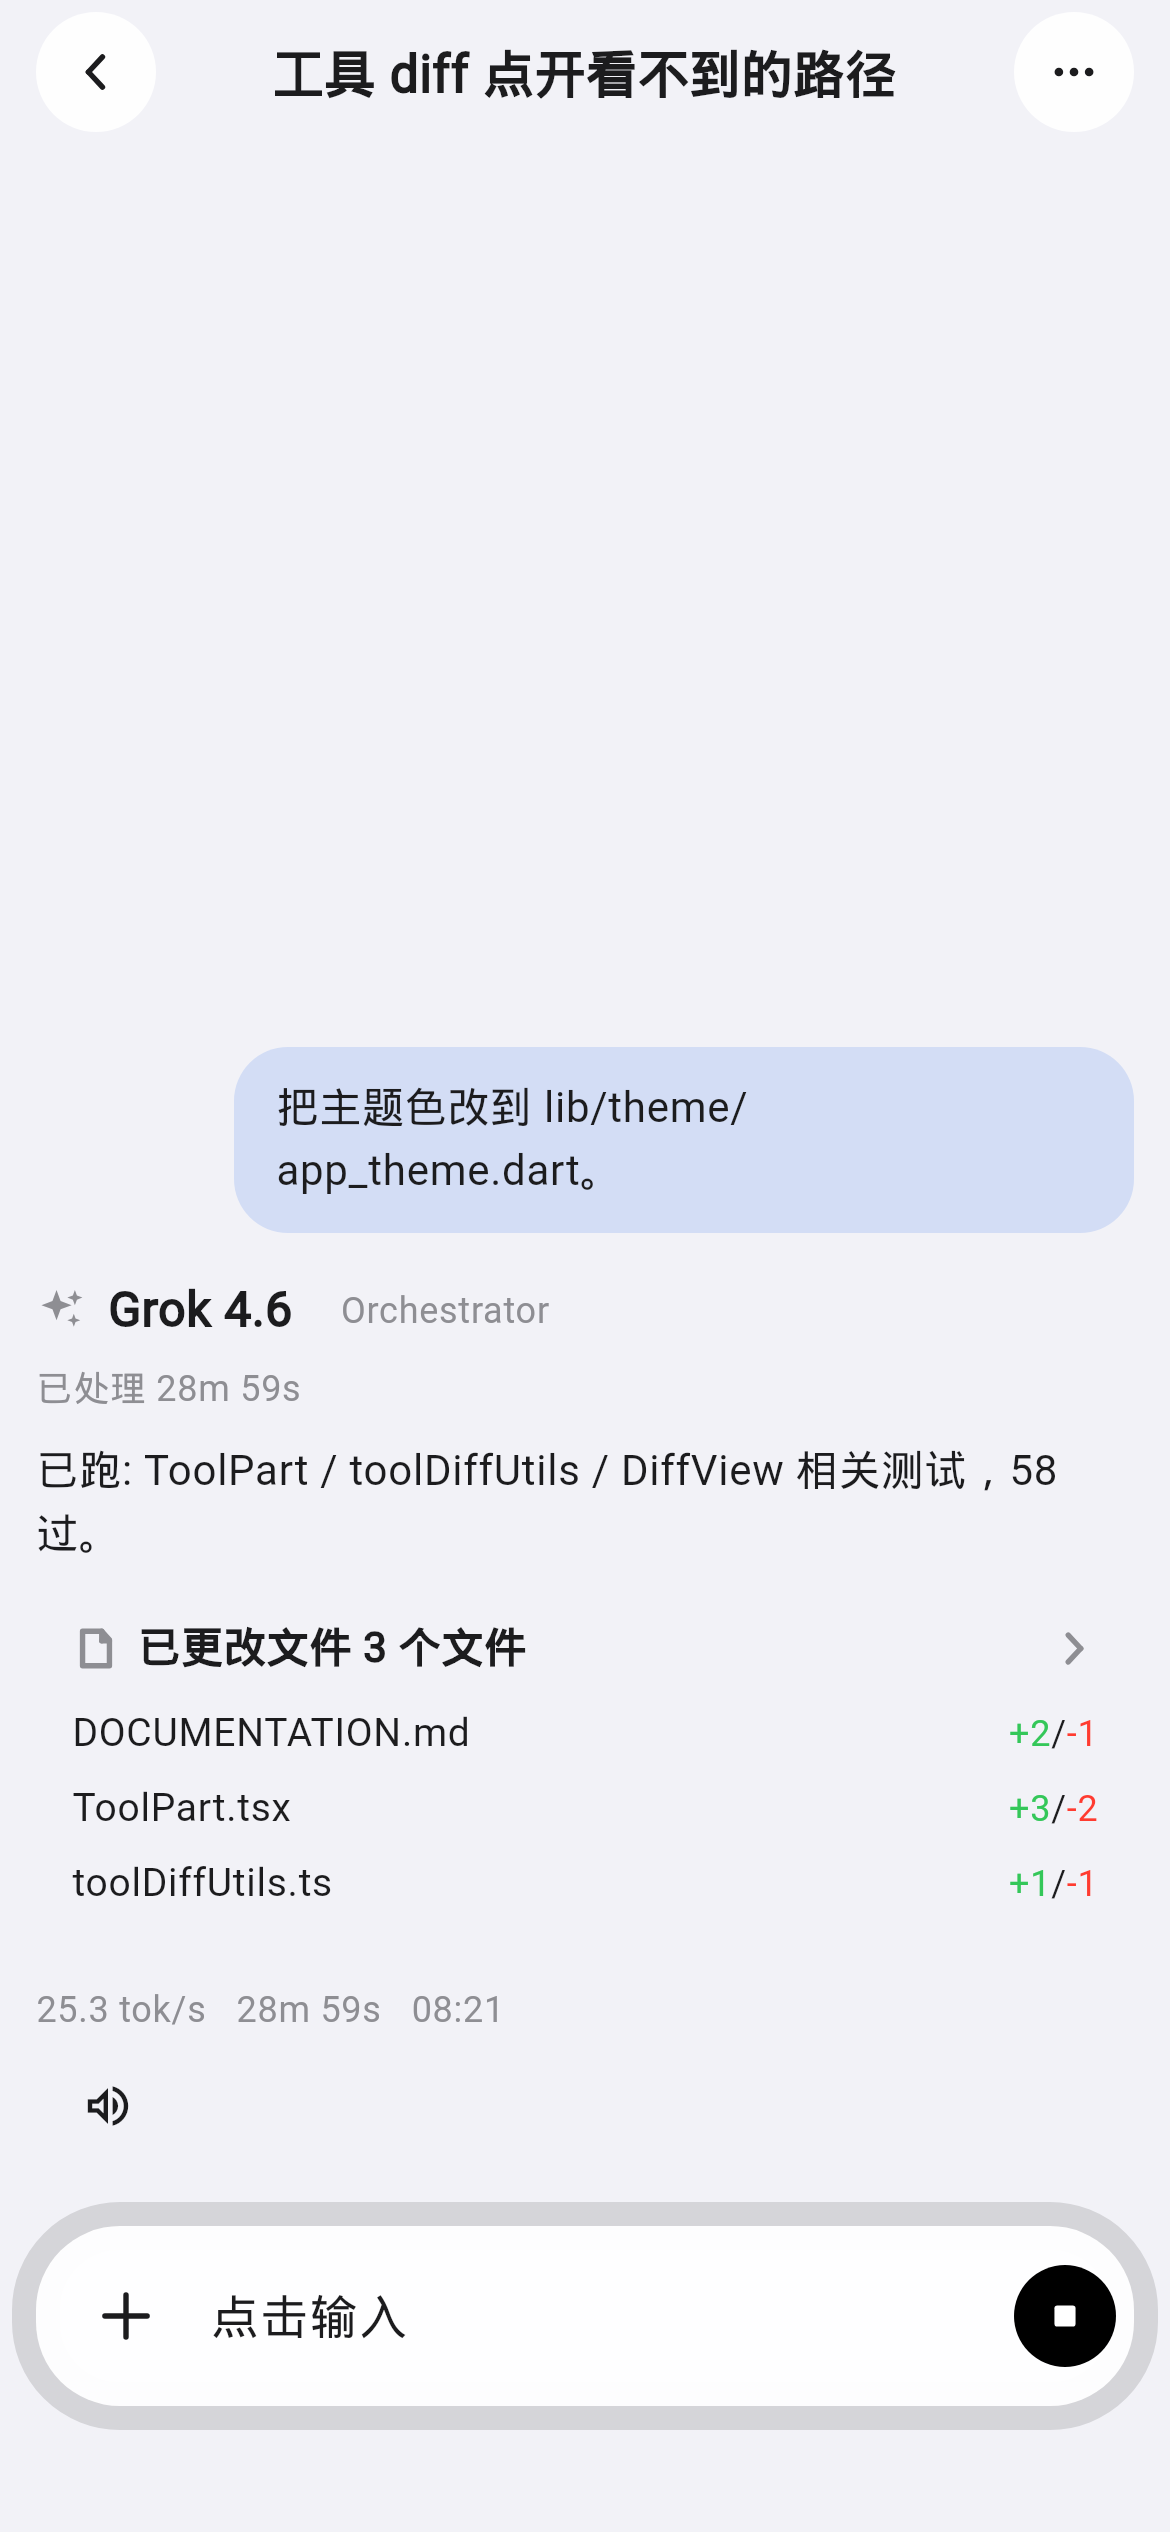
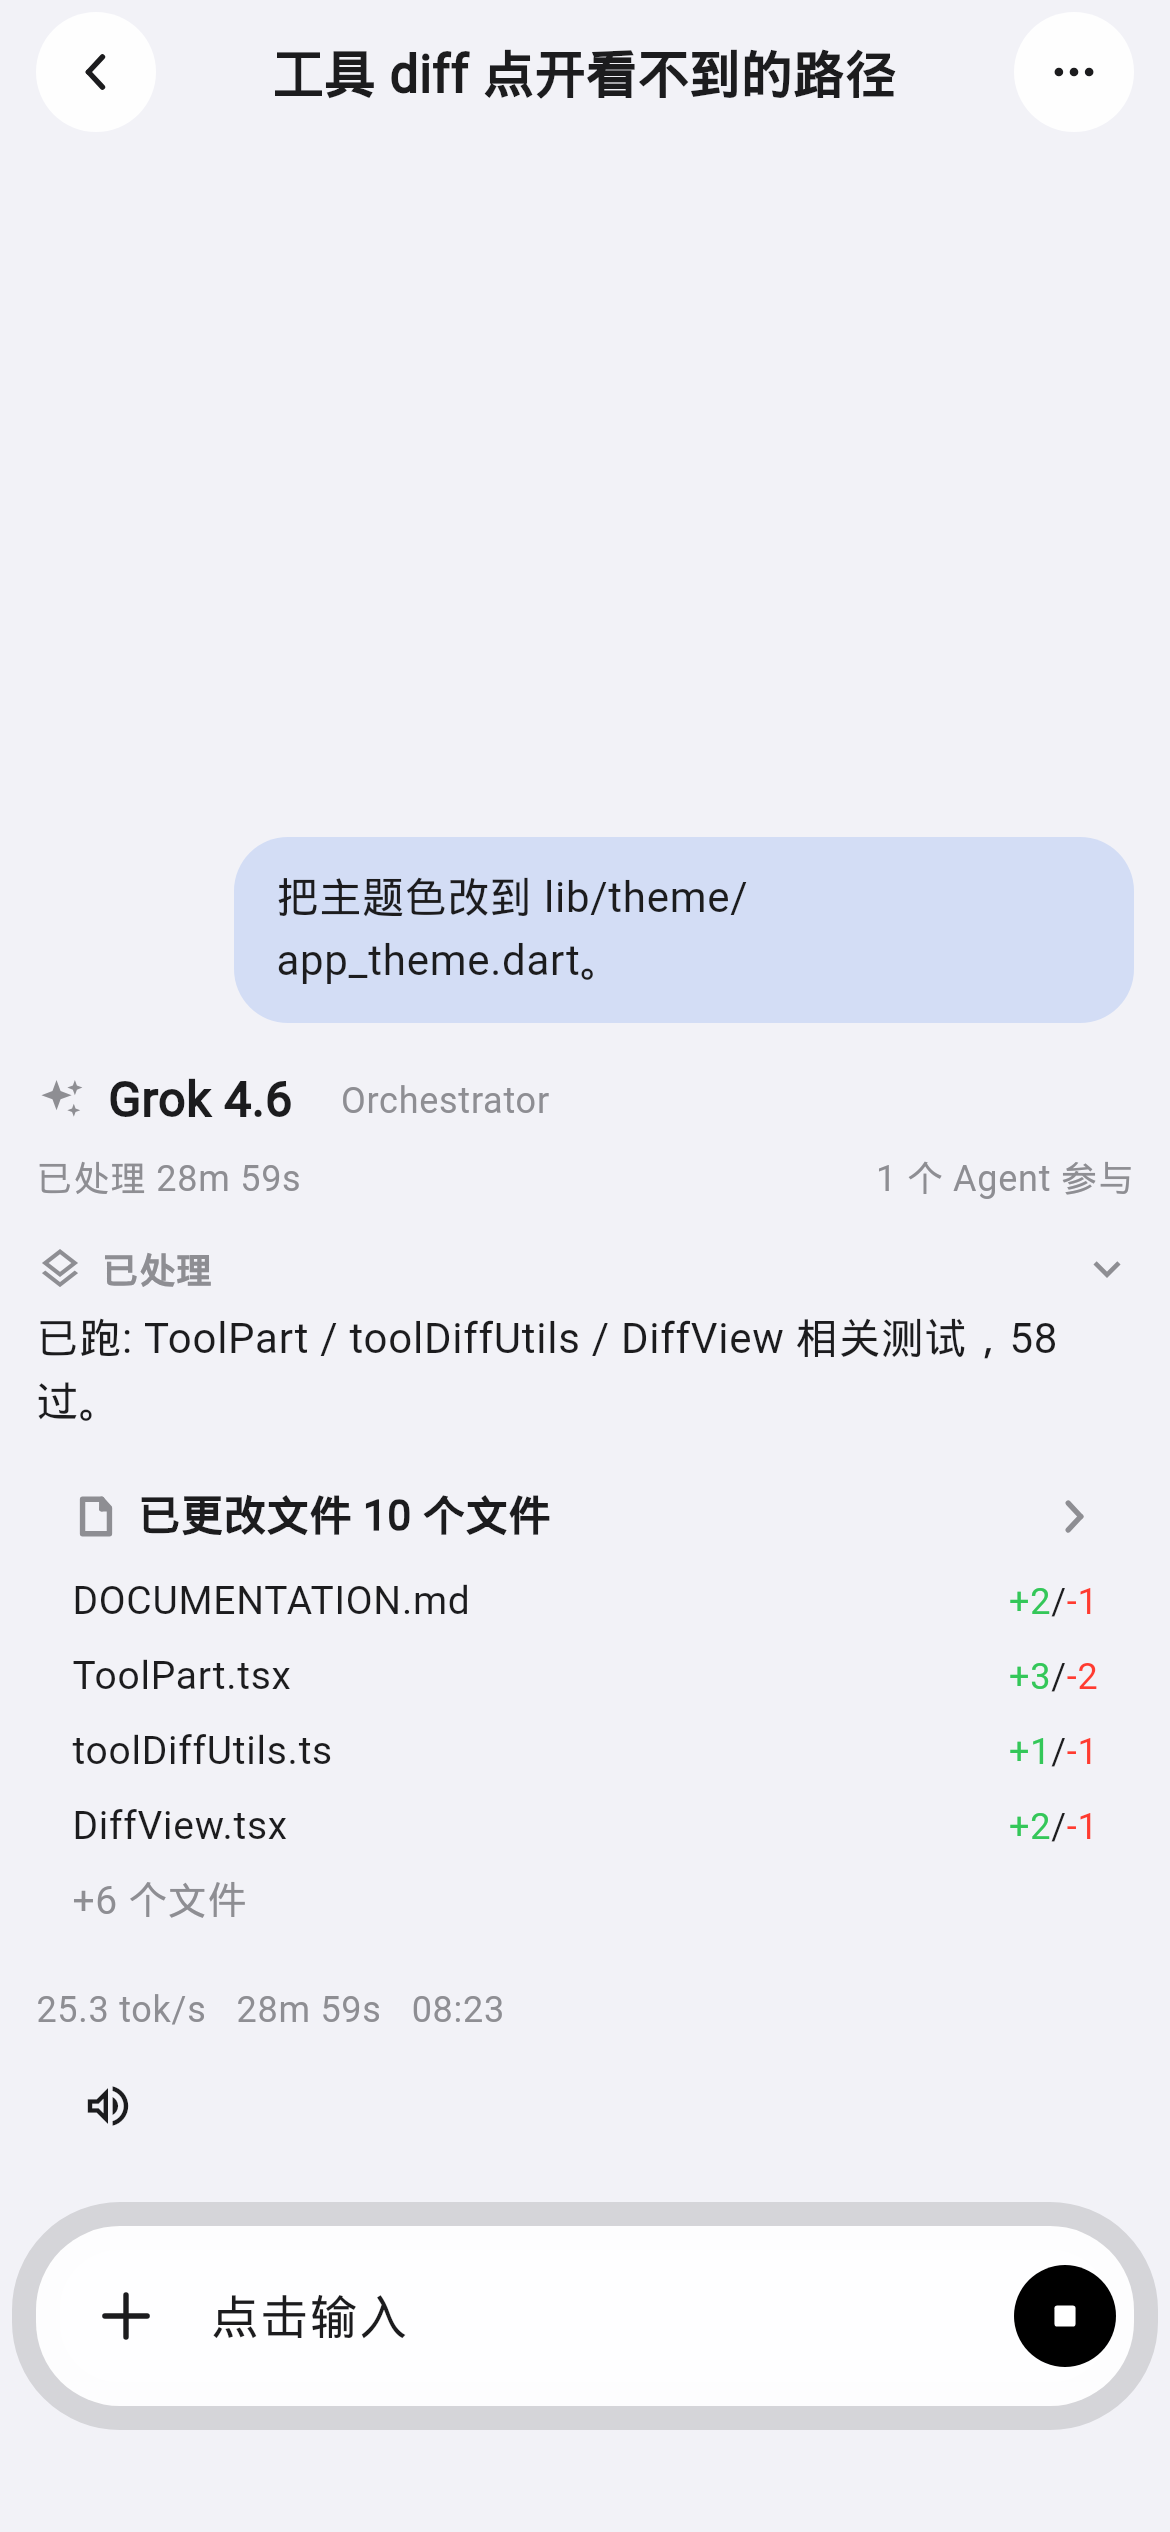
fix(flutter): recapture 07 with agent count and file card
Seed the isolated Chat screenshot with a completed task part and ten
edits so the pushed page shows 「1 个 Agent 参与」 and 「已更改文件 10 个文件」
without overlaying Projects chrome.

diff --git a/apps/mobile_flutter/test/flutter_native_screenshots_test.dart b/apps/mobile_flutter/test/flutter_native_screenshots_test.dart
@@ -164,8 +164,11 @@ void main() {
     expect(find.byKey(const Key('composer-dictate')), findsNothing);
     expect(find.text('Grok 4.6'), findsOneWidget);
     expect(find.text('Orchestrator'), findsOneWidget);
+    expect(find.textContaining('已处理'), findsWidgets);
+    expect(find.textContaining('Agent 参与'), findsOneWidget);
     expect(find.byKey(const Key('chat-tool-diff-edit-1')), findsOneWidget);
     expect(find.textContaining('已更改文件'), findsOneWidget);
+    expect(find.textContaining('个文件'), findsWidgets);
     expect(find.textContaining('tok/s'), findsOneWidget);
     expect(find.textContaining('需要权限'), findsNothing);
     expect(find.byKey(const Key('tab-projects')), findsNothing);
@@ -404,6 +407,16 @@ MemoryOpenChamberTransport _seededTransport() {
             'text': '已跑: ToolPart / toolDiffUtils / DiffView 相关测试，58 过。',
           },
           {
+            'id': 'task-1',
+            'type': 'tool',
+            'tool': 'task',
+            'state': {
+              'status': 'completed',
+              'input': {'description': 'patch diff viewer', 'prompt': 'patch diff viewer'},
+              'output': 'done',
+            },
+          },
+          {
             'id': 'edit-1',
             'type': 'tool',
             'tool': 'edit',
@@ -434,6 +447,76 @@ MemoryOpenChamberTransport _seededTransport() {
               'input': {'path': 'toolDiffUtils.ts'},
               'output':
                   '--- a/toolDiffUtils.ts\n+++ b/toolDiffUtils.ts\n@@\n-x\n+y\n',
+            },
+          },
+          {
+            'id': 'edit-4',
+            'type': 'tool',
+            'tool': 'edit',
+            'state': {
+              'status': 'completed',
+              'input': {'path': 'DiffView.tsx'},
+              'output': '--- a/DiffView.tsx\n+++ b/DiffView.tsx\n@@\n-old\n+new\n+line\n',
+            },
+          },
+          {
+            'id': 'edit-5',
+            'type': 'tool',
+            'tool': 'edit',
+            'state': {
+              'status': 'completed',
+              'input': {'path': 'chat_screen.dart'},
+              'output': '--- a/chat_screen.dart\n+++ b/chat_screen.dart\n@@\n-a\n+b\n',
+            },
+          },
+          {
+            'id': 'edit-6',
+            'type': 'tool',
+            'tool': 'edit',
+            'state': {
+              'status': 'completed',
+              'input': {'path': 'ios_chrome.dart'},
+              'output': '--- a/ios_chrome.dart\n+++ b/ios_chrome.dart\n@@\n-a\n+b\n+c\n',
+            },
+          },
+          {
+            'id': 'edit-7',
+            'type': 'tool',
+            'tool': 'edit',
+            'state': {
+              'status': 'completed',
+              'input': {'path': 'composer_bar.dart'},
+              'output': '--- a/composer_bar.dart\n+++ b/composer_bar.dart\n@@\n-a\n+b\n',
+            },
+          },
+          {
+            'id': 'edit-8',
+            'type': 'tool',
+            'tool': 'edit',
+            'state': {
+              'status': 'completed',
+              'input': {'path': 'tab_scaffold.dart'},
+              'output': '--- a/tab_scaffold.dart\n+++ b/tab_scaffold.dart\n@@\n-a\n+b\n',
+            },
+          },
+          {
+            'id': 'edit-9',
+            'type': 'tool',
+            'tool': 'edit',
+            'state': {
+              'status': 'completed',
+              'input': {'path': 'secondary_chrome.dart'},
+              'output': '--- a/secondary_chrome.dart\n+++ b/secondary_chrome.dart\n@@\n-a\n+b\n',
+            },
+          },
+          {
+            'id': 'edit-10',
+            'type': 'tool',
+            'tool': 'edit',
+            'state': {
+              'status': 'completed',
+              'input': {'path': 'app_theme.dart'},
+              'output': '--- a/app_theme.dart\n+++ b/app_theme.dart\n@@\n-a\n+b\n+c\n',
             },
           },
         ],
